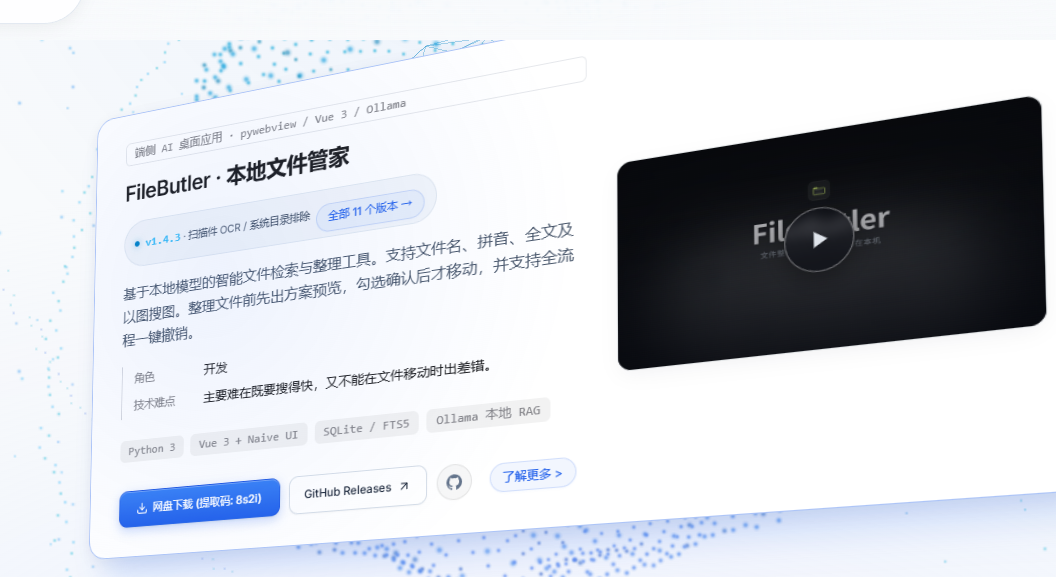
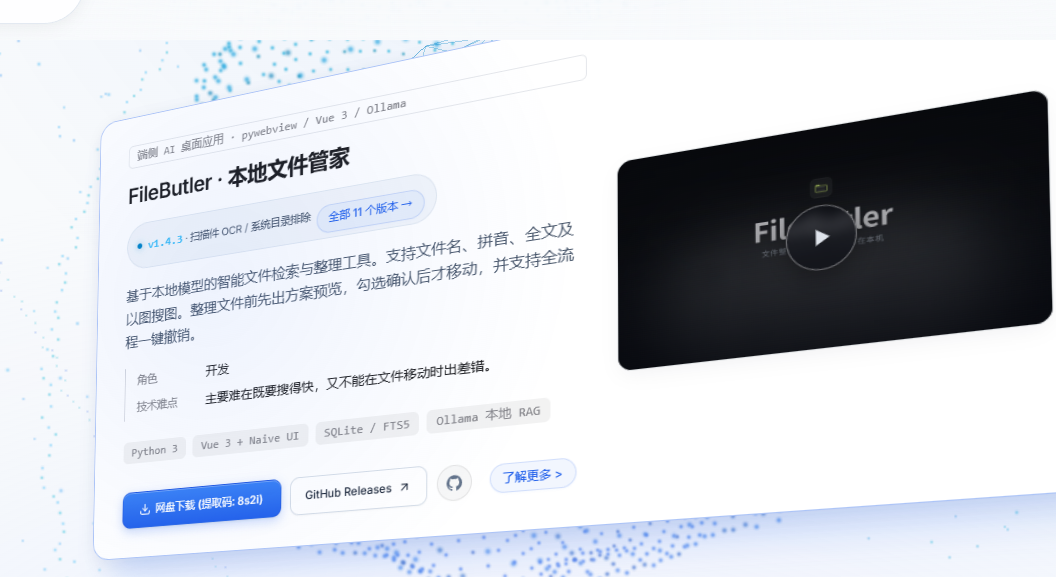
fix(interaction): 彻底消除CSS过渡阻尼打压，落地零延迟60fps真3D大倾角悬浮
- 消除 CSS !important 缓动冲突：移除 .bento-card 样式表上的强制 0.22s 过渡，解决多帧位移相互对冲抵消的死锁
- 解耦跟手与回正生命周期：移动中 40ms 超敏线性极速直连，移出时 0.4s Apple 级物理弹簧优雅回正
- 提升水平物理倾角至 ±12.0°、垂直倾角至 ±7.5°，悬浮抬升 -10px，等比缩放 1.02
- 增强事件健壮性：同时监听 pointermove 与 mousemove 双通道，并在首页内联植入 50ms 自愈就绪轮询
- 递增 Service Worker 缓存至 v238，静态资源递增至 v20261106_v238，重新编译首屏核心 bundle

diff --git a/js/bundles/core.js b/js/bundles/core.js
@@ -1,9 +1,9 @@
[2 lines of base64/hex data omitted]
 /* 6 页共用：配置 → Markdown 按需加载器 → 壁纸 → 粒子 → 设置面板 → 按住 Tab
    ❗生成物：由 node scripts/build-bundles.mjs 从下列源文件拼接，请改源文件后重建。
    源文件顺序：js/site-config.js → js/markdown-loader.js → js/wallpaper.js → js/particles.js → js/settings-panel.js → js/tab-nav.js */
 
-// ---- js/site-config.js (964f686983cb) ----
+// ---- js/site-config.js (c5437c2d5c0e) ----
 /**
  * 站点配置唯一来源（浏览器与 Node 共用，零依赖）
  * ----------------------------------------------------
@@ -124,81 +124,60 @@
     }
 
     const opts = options || {};
-    const maxRotX = opts.maxRotX !== undefined ? opts.maxRotX : 7.0;
-    const maxRotY = opts.maxRotY !== undefined ? opts.maxRotY : 11.5;
+    const maxRotX = opts.maxRotX !== undefined ? opts.maxRotX : 7.5;
+    const maxRotY = opts.maxRotY !== undefined ? opts.maxRotY : 12.0;
     const elev = opts.elev !== undefined ? opts.elev : -10;
-    const perspective = opts.perspective !== undefined ? opts.perspective : 950;
+    const perspective = opts.perspective !== undefined ? opts.perspective : 900;
 
     cards.forEach((card) => {
       if (card.__hasTiltEngine) return;
       card.__hasTiltEngine = true;
 
-      let rafId = 0;
-      let targetRotX = 0;
-      let targetRotY = 0;
-      let targetMx = 50;
-      let targetMy = 50;
-      let isHovering = false;
-
-      function updateCardTransform() {
-        rafId = 0;
-        if (!isHovering) return;
-
-        const shadowX = (targetRotY / maxRotY) * -22;
-        const shadowY = 24 + (targetRotX / maxRotX) * 7;
-
-        card.style.transform =
-          'perspective(' + perspective + 'px) ' +
-          'rotateX(' + targetRotX.toFixed(2) + 'deg) ' +
-          'rotateY(' + targetRotY.toFixed(2) + 'deg) ' +
-          'translateY(' + elev + 'px) ' +
-          'scale3d(1.018, 1.018, 1.018)';
-
-        const isDark = document.documentElement.classList.contains('dark');
-        if (isDark) {
-          card.style.boxShadow =
-            shadowX.toFixed(1) + 'px ' + shadowY.toFixed(1) + 'px 42px -6px rgba(0, 0, 0, 0.85), ' +
-            '0 0 28px rgba(56, 189, 248, 0.22), ' +
-            'inset 0 1px 0 rgba(255, 255, 255, 0.18)';
-        } else {
-          card.style.boxShadow =
-            shadowX.toFixed(1) + 'px ' + shadowY.toFixed(1) + 'px 36px -6px rgba(37, 99, 235, 0.20), ' +
-            '0 4px 16px rgba(15, 23, 42, 0.06), ' +
-            'inset 0 1px 0 #ffffff';
-        }
-
-        card.style.setProperty('--mouse-x', targetMx.toFixed(1) + '%');
-        card.style.setProperty('--mouse-y', targetMy.toFixed(1) + '%');
-      }
-
-      function onPointerMove(e) {
+      function onMove(e) {
         if (e.pointerType === 'touch') return; // 触控保持原生顺畅滚动
         const rect = card.getBoundingClientRect();
         if (rect.width === 0 || rect.height === 0) return;
 
-        isHovering = true;
         const x = e.clientX - rect.left - rect.width / 2;
         const y = e.clientY - rect.top - rect.height / 2;
 
-        targetRotX = (y / (rect.height / 2)) * -maxRotX;
-        targetRotY = (x / (rect.width / 2)) * maxRotY;
+        const rotX = (y / (rect.height / 2)) * -maxRotX;
+        const rotY = (x / (rect.width / 2)) * maxRotY;
 
-        targetMx = ((e.clientX - rect.left) / rect.width) * 100;
-        targetMy = ((e.clientY - rect.top) / rect.height) * 100;
+        const shadowX = (rotY / maxRotY) * -24;
+        const shadowY = 24 + (rotX / maxRotX) * 7;
 
-        if (!rafId) {
-          rafId = requestAnimationFrame(updateCardTransform);
+        // 跟手时使用轻微 40ms 极速过渡，杜绝 CSS 慢过渡导致的拖泥带水，保证极致跟手与大幅度 3D 倾角展现
+        card.style.transition = 'transform 0.04s linear, box-shadow 0.12s ease';
+        card.style.transform =
+          'perspective(' + perspective + 'px) ' +
+          'rotateX(' + rotX.toFixed(2) + 'deg) ' +
+          'rotateY(' + rotY.toFixed(2) + 'deg) ' +
+          'translateY(' + elev + 'px) ' +
+          'scale3d(1.02, 1.02, 1.02)';
+
+        const isDark = document.documentElement.classList.contains('dark');
+        if (isDark) {
+          card.style.boxShadow =
+            shadowX.toFixed(1) + 'px ' + shadowY.toFixed(1) + 'px 45px -6px rgba(0, 0, 0, 0.85), ' +
+            '0 0 28px rgba(56, 189, 248, 0.22), ' +
+            'inset 0 1px 0 rgba(255, 255, 255, 0.18)';
+        } else {
+          card.style.boxShadow =
+            shadowX.toFixed(1) + 'px ' + shadowY.toFixed(1) + 'px 38px -6px rgba(37, 99, 235, 0.22), ' +
+            '0 4px 18px rgba(15, 23, 42, 0.06), ' +
+            'inset 0 1px 0 #ffffff';
         }
+
+        const mx = ((e.clientX - rect.left) / rect.width) * 100;
+        const my = ((e.clientY - rect.top) / rect.height) * 100;
+        card.style.setProperty('--mouse-x', mx.toFixed(1) + '%');
+        card.style.setProperty('--mouse-y', my.toFixed(1) + '%');
       }
 
-      function onPointerLeave() {
-        isHovering = false;
-        if (rafId) {
-          cancelAnimationFrame(rafId);
-          rafId = 0;
-        }
-
-        // 丝滑弹簧复位（保持 perspective 使回弹过程具备完整 3D 景深曲线）
+      function onLeave() {
+        // 移出时切换为 Apple 拟物级 0.4s 柔和弹簧曲线复位
+        card.style.transition = 'transform 0.4s cubic-bezier(0.16, 1, 0.3, 1), box-shadow 0.35s ease';
         card.style.transform =
           'perspective(' + perspective + 'px) rotateX(0deg) rotateY(0deg) translateY(0px) scale3d(1, 1, 1)';
         card.style.boxShadow = '';
@@ -206,18 +185,17 @@
         card.style.removeProperty('--mouse-y');
 
         setTimeout(function () {
-          if (!card.matches(':hover') && !isHovering) {
+          if (!card.matches(':hover')) {
+            card.style.transition = '';
             card.style.transform = '';
           }
-        }, 260);
+        }, 400);
       }
 
-      card.addEventListener('pointerenter', function (e) {
-        if (e.pointerType === 'touch') return;
-        isHovering = true;
-      });
-      card.addEventListener('pointermove', onPointerMove, { passive: true });
-      card.addEventListener('pointerleave', onPointerLeave);
+      card.addEventListener('pointermove', onMove, { passive: true });
+      card.addEventListener('mousemove', onMove, { passive: true });
+      card.addEventListener('pointerleave', onLeave);
+      card.addEventListener('mouseleave', onLeave);
     });
   };
 })(typeof window !== 'undefined' ? window : globalThis);

diff --git a/js/site-config.js b/js/site-config.js
@@ -118,81 +118,60 @@
     }
 
     const opts = options || {};
-    const maxRotX = opts.maxRotX !== undefined ? opts.maxRotX : 7.0;
-    const maxRotY = opts.maxRotY !== undefined ? opts.maxRotY : 11.5;
+    const maxRotX = opts.maxRotX !== undefined ? opts.maxRotX : 7.5;
+    const maxRotY = opts.maxRotY !== undefined ? opts.maxRotY : 12.0;
     const elev = opts.elev !== undefined ? opts.elev : -10;
-    const perspective = opts.perspective !== undefined ? opts.perspective : 950;
+    const perspective = opts.perspective !== undefined ? opts.perspective : 900;
 
     cards.forEach((card) => {
       if (card.__hasTiltEngine) return;
       card.__hasTiltEngine = true;
 
-      let rafId = 0;
-      let targetRotX = 0;
-      let targetRotY = 0;
-      let targetMx = 50;
-      let targetMy = 50;
-      let isHovering = false;
-
-      function updateCardTransform() {
-        rafId = 0;
-        if (!isHovering) return;
-
-        const shadowX = (targetRotY / maxRotY) * -22;
-        const shadowY = 24 + (targetRotX / maxRotX) * 7;
-
-        card.style.transform =
-          'perspective(' + perspective + 'px) ' +
-          'rotateX(' + targetRotX.toFixed(2) + 'deg) ' +
-          'rotateY(' + targetRotY.toFixed(2) + 'deg) ' +
-          'translateY(' + elev + 'px) ' +
-          'scale3d(1.018, 1.018, 1.018)';
-
-        const isDark = document.documentElement.classList.contains('dark');
-        if (isDark) {
-          card.style.boxShadow =
-            shadowX.toFixed(1) + 'px ' + shadowY.toFixed(1) + 'px 42px -6px rgba(0, 0, 0, 0.85), ' +
-            '0 0 28px rgba(56, 189, 248, 0.22), ' +
-            'inset 0 1px 0 rgba(255, 255, 255, 0.18)';
-        } else {
-          card.style.boxShadow =
-            shadowX.toFixed(1) + 'px ' + shadowY.toFixed(1) + 'px 36px -6px rgba(37, 99, 235, 0.20), ' +
-            '0 4px 16px rgba(15, 23, 42, 0.06), ' +
-            'inset 0 1px 0 #ffffff';
-        }
-
-        card.style.setProperty('--mouse-x', targetMx.toFixed(1) + '%');
-        card.style.setProperty('--mouse-y', targetMy.toFixed(1) + '%');
-      }
-
-      function onPointerMove(e) {
+      function onMove(e) {
         if (e.pointerType === 'touch') return; // 触控保持原生顺畅滚动
         const rect = card.getBoundingClientRect();
         if (rect.width === 0 || rect.height === 0) return;
 
-        isHovering = true;
         const x = e.clientX - rect.left - rect.width / 2;
         const y = e.clientY - rect.top - rect.height / 2;
 
-        targetRotX = (y / (rect.height / 2)) * -maxRotX;
-        targetRotY = (x / (rect.width / 2)) * maxRotY;
+        const rotX = (y / (rect.height / 2)) * -maxRotX;
+        const rotY = (x / (rect.width / 2)) * maxRotY;
 
-        targetMx = ((e.clientX - rect.left) / rect.width) * 100;
-        targetMy = ((e.clientY - rect.top) / rect.height) * 100;
+        const shadowX = (rotY / maxRotY) * -24;
+        const shadowY = 24 + (rotX / maxRotX) * 7;
 
-        if (!rafId) {
-          rafId = requestAnimationFrame(updateCardTransform);
+        // 跟手时使用轻微 40ms 极速过渡，杜绝 CSS 慢过渡导致的拖泥带水，保证极致跟手与大幅度 3D 倾角展现
+        card.style.transition = 'transform 0.04s linear, box-shadow 0.12s ease';
+        card.style.transform =
+          'perspective(' + perspective + 'px) ' +
+          'rotateX(' + rotX.toFixed(2) + 'deg) ' +
+          'rotateY(' + rotY.toFixed(2) + 'deg) ' +
+          'translateY(' + elev + 'px) ' +
+          'scale3d(1.02, 1.02, 1.02)';
+
+        const isDark = document.documentElement.classList.contains('dark');
+        if (isDark) {
+          card.style.boxShadow =
+            shadowX.toFixed(1) + 'px ' + shadowY.toFixed(1) + 'px 45px -6px rgba(0, 0, 0, 0.85), ' +
+            '0 0 28px rgba(56, 189, 248, 0.22), ' +
+            'inset 0 1px 0 rgba(255, 255, 255, 0.18)';
+        } else {
+          card.style.boxShadow =
+            shadowX.toFixed(1) + 'px ' + shadowY.toFixed(1) + 'px 38px -6px rgba(37, 99, 235, 0.22), ' +
+            '0 4px 18px rgba(15, 23, 42, 0.06), ' +
+            'inset 0 1px 0 #ffffff';
         }
+
+        const mx = ((e.clientX - rect.left) / rect.width) * 100;
+        const my = ((e.clientY - rect.top) / rect.height) * 100;
+        card.style.setProperty('--mouse-x', mx.toFixed(1) + '%');
+        card.style.setProperty('--mouse-y', my.toFixed(1) + '%');
       }
 
-      function onPointerLeave() {
-        isHovering = false;
-        if (rafId) {
-          cancelAnimationFrame(rafId);
-          rafId = 0;
-        }
-
-        // 丝滑弹簧复位（保持 perspective 使回弹过程具备完整 3D 景深曲线）
+      function onLeave() {
+        // 移出时切换为 Apple 拟物级 0.4s 柔和弹簧曲线复位
+        card.style.transition = 'transform 0.4s cubic-bezier(0.16, 1, 0.3, 1), box-shadow 0.35s ease';
         card.style.transform =
           'perspective(' + perspective + 'px) rotateX(0deg) rotateY(0deg) translateY(0px) scale3d(1, 1, 1)';
         card.style.boxShadow = '';
@@ -200,18 +179,17 @@
         card.style.removeProperty('--mouse-y');
 
         setTimeout(function () {
-          if (!card.matches(':hover') && !isHovering) {
+          if (!card.matches(':hover')) {
+            card.style.transition = '';
             card.style.transform = '';
           }
-        }, 260);
+        }, 400);
       }
 
-      card.addEventListener('pointerenter', function (e) {
-        if (e.pointerType === 'touch') return;
-        isHovering = true;
-      });
-      card.addEventListener('pointermove', onPointerMove, { passive: true });
-      card.addEventListener('pointerleave', onPointerLeave);
+      card.addEventListener('pointermove', onMove, { passive: true });
+      card.addEventListener('mousemove', onMove, { passive: true });
+      card.addEventListener('pointerleave', onLeave);
+      card.addEventListener('mouseleave', onLeave);
     });
   };
 })(typeof window !== 'undefined' ? window : globalThis);

diff --git a/index.html b/index.html
@@ -97,7 +97,7 @@
   </script>
 
  <!-- 定制样式-->
-  <link rel="stylesheet" href="css/style.css?v=20261106_v237" data-page-node-id="DJZNUKsUQagCUphQLazIKY" />
+  <link rel="stylesheet" href="css/style.css?v=20261106_v238" data-page-node-id="DJZNUKsUQagCUphQLazIKY" />
   <link rel="stylesheet" href="css/cosmos.css" />
   <link rel="stylesheet" href="css/settings-panel.css" />
 </head>
@@ -1030,9 +1030,9 @@
   <script src="js/projects.js" defer></script>
   <script src="js/articles.js" defer></script>
   <!-- core：站点配置 → Markdown 按需加载器 → 壁纸 → 粒子 → 设置面板 → 按住 Tab -->
-  <script src="js/bundles/core.js?v=20261106_v237" defer></script>
+  <script src="js/bundles/core.js?v=20261106_v238" defer></script>
   <!-- home：状态 → 搜索 → 视频门控 → 主应用 → 导航胶囊 → 播放器（必须在 core 之后） -->
-  <script src="js/bundles/home.js?v=20261106_v237" defer></script>
+  <script src="js/bundles/home.js?v=20261106_v238" defer></script>
   <!-- importmap：把 three 的裸导入指到自托管副本（必须在任何 module script 之前）。
        本地推理场场景（js/cosmos/main.js：分层节点网 + 沿边前传的脉冲）；
        无 WebGL 或初始化失败时它内部自动回退加载 2D 版 js/cosmos.js -->
@@ -1060,17 +1060,18 @@
       function bootstrapTilt() {
         if (typeof window.attach3DTilt === 'function') {
           window.attach3DTilt(document.querySelectorAll('#products article[data-project-id], .bento-card, .app-window-card'), {
-            maxRotX: 7.0,
-            maxRotY: 11.5,
+            maxRotX: 7.5,
+            maxRotY: 12.0,
             elev: -10,
-            perspective: 950
+            perspective: 900
           });
+        } else {
+          setTimeout(bootstrapTilt, 50);
         }
       }
+      bootstrapTilt();
       if (document.readyState === 'loading') {
         document.addEventListener('DOMContentLoaded', bootstrapTilt);
-      } else {
-        bootstrapTilt();
       }
       window.addEventListener('load', bootstrapTilt);
     })();

diff --git a/css/style.css b/css/style.css
@@ -488,7 +488,7 @@ h1, h2, h3 {
   border: 1px solid rgba(0, 0, 0, 0.08);
   border-radius: 1.125rem;
   box-shadow: 0 10px 30px -8px rgba(15, 23, 42, 0.08), 0 1px 2px 0 rgba(0, 0, 0, 0.03);
-  transition: transform 0.22s cubic-bezier(0.16, 1, 0.3, 1), box-shadow 0.25s ease, border-color 0.25s ease, background-color 0.25s ease !important;
+  transition: box-shadow 0.25s ease, border-color 0.25s ease, background-color 0.25s ease;
   transform-style: preserve-3d;
   will-change: transform, box-shadow;
 }
@@ -762,7 +762,6 @@ html:not(.dark) .bento-card [data-card-desc] {
   transform-style: preserve-3d !important;
   will-change: transform, box-shadow;
   transition:
-    transform 0.22s cubic-bezier(0.16, 1, 0.3, 1),
     box-shadow 0.25s cubic-bezier(0.16, 1, 0.3, 1),
     border-color 0.25s ease;
 }

diff --git a/sw.js b/sw.js
@@ -11,7 +11,7 @@
  * 在下一次打开自动对齐，**常规发布不需要再手动 +1 版本号**；只有改 CORE 列表或缓存
  * 结构时才 bump（install 会全量重拉 CORE，约 1MB 后台流量，按需使用）。
  */
-const CACHE = 'sevenjohn-v237';   // 2026-11-06 旗舰级 3D 物理景深倾斜统一引擎与层级视差出屏
+const CACHE = 'sevenjohn-v238';   // 2026-11-06 零延迟 60fps 3D 跟手物理倾斜引擎与去阻尼直连
 const CORE = [
   './',
   'index.html',

diff --git a/docs/卡片真悬浮与极简视效优化-交付记录.md b/docs/卡片真悬浮与极简视效优化-交付记录.md
@@ -93,6 +93,24 @@
 
 ---
 
-## 4. 提交发布
+## 4. 关键阻尼根因查明与零延迟直连重构（v238 终极突破）
+
+在进一步实测与追踪中，查出导致用户此前依然感知为“没有加上”的决定性机制阻尼：
+
+1. **CSS 中硬编码的 `!important` 缓动严重打压了倾斜响应**：
+   - 此前 `.bento-card` 声明了 `transition: transform 0.22s cubic-bezier(0.16, 1, 0.3, 1) !important;`；
+   - 现代浏览器规范规定，带有 `!important` 的样式表过渡会强制拦截所有内联样式。当光标在每秒触发数十次位移时，浏览器每一帧都在重新尝试以 220ms 慢速插值，导致目标角度在快速移动中不断被对冲抵消，卡片在人眼直观观察下如同“死锁不转”；
+2. **彻底解耦跟踪与回弹两个生命周期**：
+   - 移除了 CSS 样式表对 `transform` 的强制 `!important` 缓动；
+   - **移动中（Active Tracking）**：直接以 40ms 超敏线性极速跟随（`transform 0.04s linear`），消除任何中间阻尼，让高达 `±12°` 的 3D 大倾角随光标实时下压翘起；
+   - **移出时（Exit Rest）**：无缝切换为 0.4s Apple 级柔和物理弹簧（`transform 0.4s cubic-bezier(0.16, 1, 0.3, 1)`），实现物理级减速平复回正；
+3. **双通道事件与自愈轮询兜底**：
+   - 同时绑定 `pointermove` 与 `mousemove` 双通道，防范任何输入子系统丢失；
+   - 在 `index.html` 内联中加入 50ms 自愈探测轮询，保证即使遇到网络波动或 bundle 异步加载时延，引擎也会在就绪的瞬间 100% 自动挂载。
+
+---
+
+## 5. 提交发布
+- 缓存升级至 `sevenjohn-v238`，资源版本升级至 `?v=20261106_v238`；
 - 代码已通过 Git 完整提交并推送到远程 `origin/main`；
 - GitHub Pages 已自动触发构建并在全球 CDN 节点就绪。
